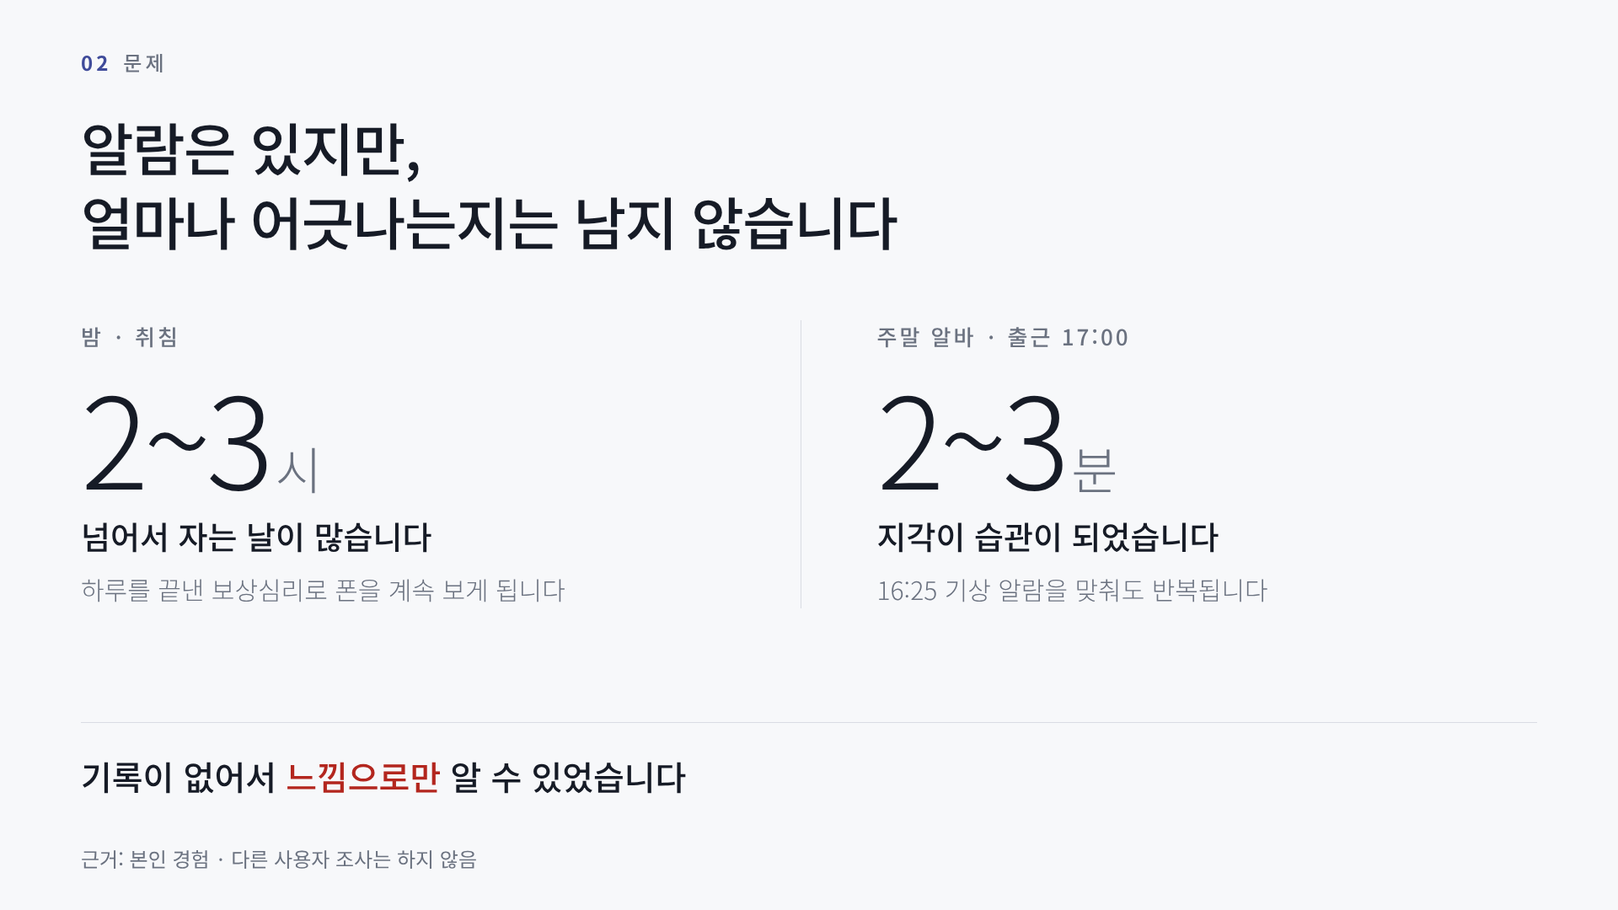
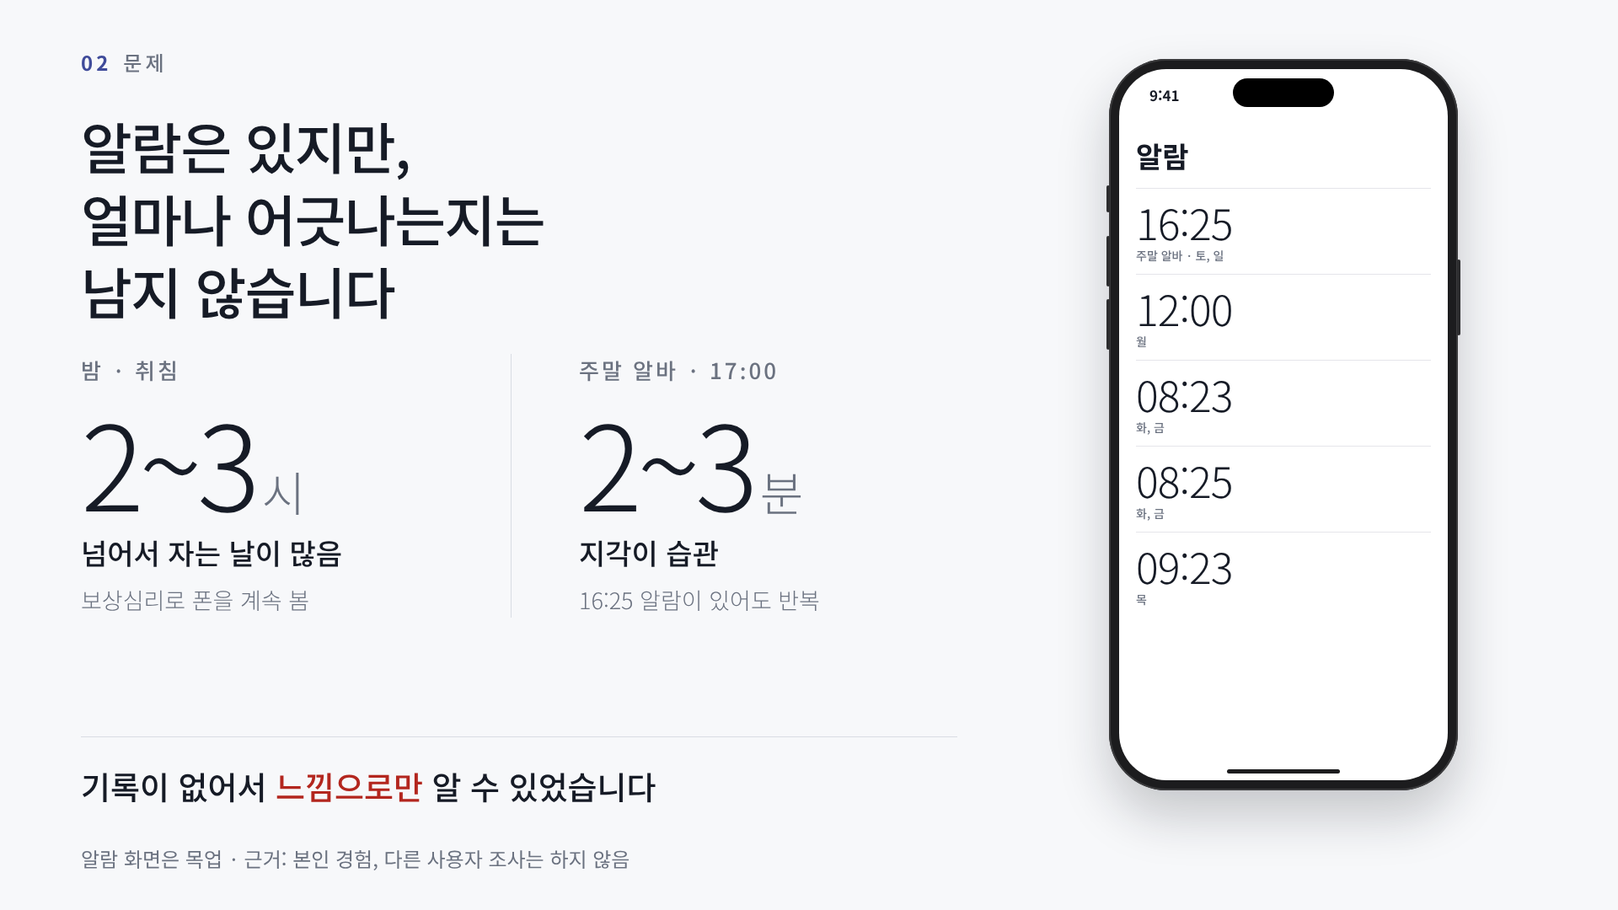
docs: 중간발표 장표를 아이폰 화면·아이콘 없음으로 다시 제작, 대본 갱신
Claude-Session: https://claude.ai/code/session_01P1GBHLbgts9XqSkhaJYGHU

diff --git a/promise_time/docs/presentation/slide2.html b/promise_time/docs/presentation/slide2.html
@@ -1,24 +1,22 @@
-<!doctype html><html lang=ko><head><meta charset=utf-8><link rel=stylesheet href="file:///tmp/claude-0/-home-user-claude/07db6671-1695-5be9-8ff8-4806634fec40/scratchpad/slides/../fonts/package/300.css"><link rel=stylesheet href="file:///tmp/claude-0/-home-user-claude/07db6671-1695-5be9-8ff8-4806634fec40/scratchpad/slides/../fonts/package/400.css"><link rel=stylesheet href="file:///tmp/claude-0/-home-user-claude/07db6671-1695-5be9-8ff8-4806634fec40/scratchpad/slides/../fonts/package/500.css"><link rel=stylesheet href="file:///tmp/claude-0/-home-user-claude/07db6671-1695-5be9-8ff8-4806634fec40/scratchpad/slides/../fonts/package/700.css"><link rel=stylesheet href=common.css><style>
-h1{position:absolute;left:96px;top:130px;font-size:68px}
-.cols{position:absolute;left:96px;right:96px;top:380px;display:flex}
-.c{flex:1;padding-right:70px}
-.c+.c{padding-left:90px;padding-right:0;border-left:1px solid var(--line)}
+<!doctype html><html lang=ko><head><meta charset=utf-8><link rel=stylesheet href="file:///tmp/claude-0/-home-user-claude/07db6671-1695-5be9-8ff8-4806634fec40/scratchpad/slides/../fonts/package/300.css"><link rel=stylesheet href="file:///tmp/claude-0/-home-user-claude/07db6671-1695-5be9-8ff8-4806634fec40/scratchpad/slides/../fonts/package/400.css"><link rel=stylesheet href="file:///tmp/claude-0/-home-user-claude/07db6671-1695-5be9-8ff8-4806634fec40/scratchpad/slides/../fonts/package/500.css"><link rel=stylesheet href="file:///tmp/claude-0/-home-user-claude/07db6671-1695-5be9-8ff8-4806634fec40/scratchpad/slides/../fonts/package/700.css"><link rel=stylesheet href=common.css><link rel=stylesheet href=phone.css><script src=phone.js></script><style>
+h1{position:absolute;left:96px;top:130px;font-size:66px}
+.cols{position:absolute;left:96px;top:420px;display:flex;gap:90px}
+.c{width:420px}.c+.c{padding-left:80px;border-left:1px solid var(--line)}
 .k{font-size:26px;letter-spacing:3px;color:var(--sub);font-weight:500}
-.n{font-size:150px;font-weight:300;letter-spacing:-6px;line-height:1.1;margin-top:16px}
-.n small{font-size:60px;letter-spacing:0;margin-left:8px;color:var(--sub)}
-.d{font-size:38px;font-weight:500;margin-top:10px}
-.e{font-size:30px;color:var(--sub);margin-top:14px;font-weight:300;line-height:1.5}
-.conc{position:absolute;left:96px;right:96px;bottom:130px;border-top:1px solid var(--line);padding-top:34px;font-size:40px;font-weight:500}
+.n{font-size:140px;font-weight:300;letter-spacing:-6px;line-height:1.1;margin-top:12px}
+.n small{font-size:56px;letter-spacing:0;margin-left:8px;color:var(--sub)}
+.d{font-size:34px;font-weight:500;margin-top:8px}
+.e{font-size:27px;color:var(--sub);margin-top:12px;font-weight:300;line-height:1.5}
+.conc{position:absolute;left:96px;width:1040px;bottom:120px;border-top:1px solid var(--line);padding-top:30px;font-size:38px;font-weight:500}
 .conc em{font-style:normal;color:var(--red)}
+#p{position:absolute;right:190px;top:70px}
 </style></head><body>
 <div class=sec><b>02</b>문제</div>
-<h1>알람은 있지만,<br>얼마나 어긋나는지는 남지 않습니다</h1>
+<h1>알람은 있지만,<br>얼마나 어긋나는지는<br>남지 않습니다</h1>
 <div class=cols>
- <div class=c><div class=k>밤 · 취침</div><div class=n>2~3<small>시</small></div>
-  <div class=d>넘어서 자는 날이 많습니다</div><div class=e>하루를 끝낸 보상심리로 폰을 계속 보게 됩니다</div></div>
- <div class=c><div class=k>주말 알바 · 출근 17:00</div><div class=n>2~3<small>분</small></div>
-  <div class=d>지각이 습관이 되었습니다</div><div class=e>16:25 기상 알람을 맞춰도 반복됩니다</div></div>
-</div>
+<div class=c><div class=k>밤 · 취침</div><div class=n>2~3<small>시</small></div><div class=d>넘어서 자는 날이 많음</div><div class=e>보상심리로 폰을 계속 봄</div></div>
+<div class=c><div class=k>주말 알바 · 17:00</div><div class=n>2~3<small>분</small></div><div class=d>지각이 습관</div><div class=e>16:25 알람이 있어도 반복</div></div></div>
 <div class=conc>기록이 없어서 <em>느낌으로만</em> 알 수 있었습니다</div>
-<div class=foot>근거: 본인 경험 · 다른 사용자 조사는 하지 않음</div>
+<div id=p></div><script>document.getElementById('p').innerHTML=frame(alarmScreen(),1.0);</script>
+<div class=foot>알람 화면은 목업 · 근거: 본인 경험, 다른 사용자 조사는 하지 않음</div>
 </body></html>

diff --git a/promise_time/docs/presentation/slide3.html b/promise_time/docs/presentation/slide3.html
@@ -1,19 +1,20 @@
-<!doctype html><html lang=ko><head><meta charset=utf-8><link rel=stylesheet href="file:///tmp/claude-0/-home-user-claude/07db6671-1695-5be9-8ff8-4806634fec40/scratchpad/slides/../fonts/package/300.css"><link rel=stylesheet href="file:///tmp/claude-0/-home-user-claude/07db6671-1695-5be9-8ff8-4806634fec40/scratchpad/slides/../fonts/package/400.css"><link rel=stylesheet href="file:///tmp/claude-0/-home-user-claude/07db6671-1695-5be9-8ff8-4806634fec40/scratchpad/slides/../fonts/package/500.css"><link rel=stylesheet href="file:///tmp/claude-0/-home-user-claude/07db6671-1695-5be9-8ff8-4806634fec40/scratchpad/slides/../fonts/package/700.css"><link rel=stylesheet href=common.css><style>
-h1{position:absolute;left:96px;top:104px;font-size:54px;white-space:nowrap}
-h1 em{font-style:normal;color:var(--accent)}
-.cols{position:absolute;top:215px;left:0;right:0;display:flex;justify-content:center;gap:100px}
-.col{width:460px}
-.cap{display:flex;align-items:baseline;gap:14px;margin-bottom:18px;height:44px}
-.cap b{font-size:26px;color:var(--accent);font-weight:500;letter-spacing:2px}
-.cap span{font-size:34px;font-weight:500}
-.cap small{font-size:24px;color:var(--sub);font-weight:300;margin-left:6px}
+<!doctype html><html lang=ko><head><meta charset=utf-8><link rel=stylesheet href="file:///tmp/claude-0/-home-user-claude/07db6671-1695-5be9-8ff8-4806634fec40/scratchpad/slides/../fonts/package/300.css"><link rel=stylesheet href="file:///tmp/claude-0/-home-user-claude/07db6671-1695-5be9-8ff8-4806634fec40/scratchpad/slides/../fonts/package/400.css"><link rel=stylesheet href="file:///tmp/claude-0/-home-user-claude/07db6671-1695-5be9-8ff8-4806634fec40/scratchpad/slides/../fonts/package/500.css"><link rel=stylesheet href="file:///tmp/claude-0/-home-user-claude/07db6671-1695-5be9-8ff8-4806634fec40/scratchpad/slides/../fonts/package/700.css"><link rel=stylesheet href=common.css><link rel=stylesheet href=phone.css><script src=phone.js></script><style>
+h1{position:absolute;left:96px;top:104px;font-size:54px;white-space:nowrap}h1 em{font-style:normal;color:var(--accent)}
+.cols{position:absolute;top:210px;left:0;right:0;display:flex;justify-content:center;gap:60px}
+.cap{display:flex;align-items:baseline;gap:14px;margin:0 0 14px 20px;height:40px}
+.cap b{font-size:26px;color:var(--accent);font-weight:500;letter-spacing:2px}.cap span{font-size:32px;font-weight:500}
 </style></head><body>
 <div class=sec><b>03</b>핵심가치</div>
 <h1>느낌이 아니라 <em>숫자</em>로 확인하고, 기록으로 남깁니다</h1>
 <div class=cols>
- <div class=col><div class=cap><b>01</b><span>시각 두 개 선택</span></div><div class=phone><img src=crops/first.png></div></div>
- <div class=col><div class=cap><b>02</b><span>차이를 바로 확인</span></div><div class=phone><img src=crops/result.png></div></div>
- <div class=col><div class=cap><b>03</b><span>기록이 쌓임</span></div><div class=phone><img src=crops/list.png></div></div>
-</div>
-<div class=foot>실제 실행 화면 · 입력값은 예시 · 현재는 앱을 다시 실행하면 기록이 사라집니다</div>
+<div><div class=cap><b>01</b><span>시각 두 개 선택</span></div><div id=a></div></div>
+<div><div class=cap><b>02</b><span>차이를 바로 확인</span></div><div id=b></div></div>
+<div><div class=cap><b>03</b><span>기록이 쌓임</span></div><div id=c></div></div></div>
+<script>
+const S=0.8;
+document.getElementById('a').innerHTML=frame(appScreen({kind:'취침'}),S);
+document.getElementById('b').innerHTML=frame(appScreen({kind:'취침',target:'01:23',actual:'02:40',result:'77분 늦었어요',rows:['취침 · 목표 01:23 · 실제 02:40 · 77분 늦었어요']}),S);
+document.getElementById('c').innerHTML=frame(appScreen({kind:'출근',target:'17:00',actual:'17:03',result:'3분 늦었어요',rows:['출근 · 목표 17:00 · 실제 17:03 · 3분 늦었어요','출근 · 목표 17:00 · 실제 17:00 · 목표 시각에 맞췄어요','취침 · 목표 01:23 · 실제 23:40 · 103분 일찍 했어요','취침 · 목표 01:23 · 실제 02:40 · 77분 늦었어요']}),S);
+</script>
+<div class=foot>앱 화면 · 입력값은 예시 · 현재는 앱을 다시 실행하면 기록이 사라집니다</div>
 </body></html>

diff --git a/promise_time/docs/presentation/slide1.html b/promise_time/docs/presentation/slide1.html
@@ -1,25 +1,20 @@
-<!doctype html><html lang=ko><head><meta charset=utf-8><link rel=stylesheet href="file:///tmp/claude-0/-home-user-claude/07db6671-1695-5be9-8ff8-4806634fec40/scratchpad/slides/../fonts/package/300.css"><link rel=stylesheet href="file:///tmp/claude-0/-home-user-claude/07db6671-1695-5be9-8ff8-4806634fec40/scratchpad/slides/../fonts/package/400.css"><link rel=stylesheet href="file:///tmp/claude-0/-home-user-claude/07db6671-1695-5be9-8ff8-4806634fec40/scratchpad/slides/../fonts/package/500.css"><link rel=stylesheet href="file:///tmp/claude-0/-home-user-claude/07db6671-1695-5be9-8ff8-4806634fec40/scratchpad/slides/../fonts/package/700.css"><link rel=stylesheet href=common.css><style>
+<!doctype html><html lang=ko><head><meta charset=utf-8><link rel=stylesheet href="file:///tmp/claude-0/-home-user-claude/07db6671-1695-5be9-8ff8-4806634fec40/scratchpad/slides/../fonts/package/300.css"><link rel=stylesheet href="file:///tmp/claude-0/-home-user-claude/07db6671-1695-5be9-8ff8-4806634fec40/scratchpad/slides/../fonts/package/400.css"><link rel=stylesheet href="file:///tmp/claude-0/-home-user-claude/07db6671-1695-5be9-8ff8-4806634fec40/scratchpad/slides/../fonts/package/500.css"><link rel=stylesheet href="file:///tmp/claude-0/-home-user-claude/07db6671-1695-5be9-8ff8-4806634fec40/scratchpad/slides/../fonts/package/700.css"><link rel=stylesheet href=common.css><link rel=stylesheet href=phone.css><script src=phone.js></script><style>
 .l{position:absolute;left:96px;top:230px;width:1000px}
 .name{font-size:30px;color:var(--accent);font-weight:500;letter-spacing:1px}
 h1{font-size:80px;margin-top:26px}
 .sub{font-size:34px;color:var(--sub);margin-top:34px;line-height:1.6;font-weight:300}
 .list{margin-top:70px;width:820px;border-top:1px solid var(--line)}
 .it{display:flex;padding:26px 0;border-bottom:1px solid var(--line);font-size:34px;align-items:baseline}
-.it b{width:130px;font-weight:500;color:var(--accent)}
-.it span{color:var(--ink);font-weight:300}
-.shot{position:absolute;right:170px;top:150px;width:520px}
-.phone{height:790px}
+.it b{width:130px;font-weight:500;color:var(--accent)}.it span{font-weight:300}
+#p{position:absolute;right:190px;top:70px}
 </style></head><body>
 <div class=sec><b>01</b>주제</div>
-<div class=l>
- <div class=name>약속 시각 기록 (가칭)</div>
- <h1>정한 시각과 실제 시각,<br>그 차이를 숫자로 남깁니다</h1>
- <div class=sub>취침·출근 시각을 정해 두고,<br>실제로 한 시각과의 차이를 분 단위로 보여 주는 앱</div>
- <div class=list>
-  <div class=it><b>취침</b><span>정한 시각  ·  실제로 잠든 시각</span></div>
-  <div class=it><b>출근</b><span>정한 시각  ·  실제로 도착한 시각</span></div>
- </div>
-</div>
-<div class=shot><div class=phone><img src=crops/result.png></div></div>
-<div class=foot>실제 실행 화면 · 입력값은 예시 (목표 01:23, 실제 02:40)</div>
+<div class=l><div class=name>약속 시각 기록 (가칭)</div>
+<h1>정한 시각과 실제 시각,<br>그 차이를 숫자로 남깁니다</h1>
+<div class=sub>취침·출근 시각을 정해 두고,<br>실제로 한 시각과의 차이를 분 단위로 보여 주는 앱</div>
+<div class=list><div class=it><b>취침</b><span>정한 시각  ·  실제로 잠든 시각</span></div>
+<div class=it><b>출근</b><span>정한 시각  ·  실제로 도착한 시각</span></div></div></div>
+<div id=p></div>
+<script>document.getElementById('p').innerHTML=frame(appScreen({kind:'취침',target:'01:23',actual:'02:40',result:'77분 늦었어요',rows:['취침 · 목표 01:23 · 실제 02:40 · 77분 늦었어요']}),1.0);</script>
+<div class=foot>앱 화면 · 입력값은 예시 (목표 01:23, 실제 02:40)</div>
 </body></html>

diff --git a/promise_time/docs/presentation/phone.css b/promise_time/docs/presentation/phone.css
@@ -1,0 +1,34 @@
+/* 아이폰 모양 틀 (논리 크기 390x844, scale 변수로 축소) */
+.ip{position:relative;width:calc(414px*var(--s));height:calc(868px*var(--s))}
+.ip .body{position:absolute;left:0;top:0;width:414px;height:868px;transform:scale(var(--s));transform-origin:0 0;background:#1C1C1E;border-radius:68px;padding:12px;box-shadow:0 30px 60px rgba(22,27,38,.22),inset 0 0 0 2px #3A3A3C}
+.ip .scr{position:relative;width:390px;height:844px;border-radius:56px;overflow:hidden;background:#F3F5FA}
+.ip .isl{position:absolute;top:11px;left:50%;margin-left:-60px;width:120px;height:34px;border-radius:20px;background:#000;z-index:5}
+.ip .time{position:absolute;top:18px;left:36px;font-size:17px;font-weight:700;z-index:5}
+.ip .home{position:absolute;bottom:8px;left:50%;margin-left:-67px;width:134px;height:5px;border-radius:3px;background:#1C1C1E;z-index:5}
+.ip .btn{position:absolute;width:4px;background:#2C2C2E;border-radius:2px}
+.ip .btn.a{left:-3px;top:150px;height:32px}.ip .btn.b{left:-3px;top:210px;height:60px}.ip .btn.c{left:-3px;top:285px;height:60px}.ip .btn.d{right:-3px;top:230px;height:90px}
+/* 앱 화면 */
+.app{padding:62px 16px 0;font-family:'Noto Sans KR',sans-serif;color:#1B1B1F}
+.app h2{font-size:20px;font-weight:400;text-align:center;margin-bottom:20px}
+.app .guide{font-size:13.5px;color:#46464F;margin-bottom:14px}
+.seg{display:flex;border:1px solid #79747E;border-radius:20px;overflow:hidden;height:38px}
+.seg div{flex:1;text-align:center;line-height:36px;font-size:14px}
+.seg .on{background:#E1E0FF;font-weight:700}
+.seg div+div{border-left:1px solid #79747E}
+.two{display:flex;gap:12px;margin-top:14px}
+.tc{flex:1;background:#fff;border:1px solid #CAC4D0;border-radius:16px;padding:14px 14px 16px}
+.tc small{display:block;font-size:12px;color:#46464F}
+.tc b{display:block;margin-top:8px;font-size:22px;font-weight:500}
+.tc b.no{font-size:19px;font-weight:700;color:#8A8A92}
+.rec{margin-top:14px;background:#4F5A9C;color:#fff;text-align:center;border-radius:20px;height:44px;line-height:44px;font-size:14px;font-weight:500}
+.res{margin-top:14px;background:#FCD9D5;color:#9B1C1C;border-radius:20px;padding:20px 20px;font-size:23px;font-weight:700}
+.lh{margin-top:24px;font-size:16px;font-weight:700}
+.ls{font-size:12px;color:#46464F;margin:2px 0 10px}
+.empty{background:#fff;border:1px solid #CAC4D0;border-radius:16px;padding:46px 0;text-align:center;font-size:14px;color:#46464F}
+.row{background:#fff;border:1px solid #CAC4D0;border-radius:14px;padding:14px 14px;font-size:12.5px;margin-bottom:8px;white-space:nowrap;letter-spacing:-.3px}
+/* 알람 목록 (목업) */
+.al{min-height:844px;padding:64px 20px 0;font-family:'Noto Sans KR',sans-serif;background:#fff}
+.al h2{font-size:34px;font-weight:700;margin:14px 0 14px}
+.ar{border-top:1px solid #E5E5EA;padding:12px 0}
+.ar .t{font-size:50px;font-weight:300;letter-spacing:-1px;line-height:1.1}
+.ar .d{font-size:14px;color:#6B7280;margin-top:2px}

diff --git a/promise_time/docs/presentation/phone.js b/promise_time/docs/presentation/phone.js
@@ -1,0 +1,23 @@
+// 아이폰 틀 + 앱 화면(아이콘 없음) 생성 함수. 값은 앱의 실제 문구를 그대로 썼다.
+function frame(inner, s, time){
+  return `<div class=ip style="--s:${s}"><div class=body>
+   <i class="btn a"></i><i class="btn b"></i><i class="btn c"></i><i class="btn d"></i>
+   <div class=scr><div class=isl></div><div class=time>${time||'9:41'}</div>${inner}<div class=home></div></div></div></div>`;
+}
+function appScreen(o){
+  const seg = `<div class=seg><div class="${o.kind==='취침'?'on':''}">취침</div><div class="${o.kind==='출근'?'on':''}">출근</div></div>`;
+  const val = v => v ? `<b>${v}</b>` : `<b class=no>선택 안 함</b>`;
+  const rows = (o.rows||[]).map(r=>`<div class=row>${r}</div>`).join('');
+  return `<div class=app><h2>약속 시각 기록</h2>
+   <div class=guide>오늘 정한 시각과 실제로 한 시각을 선택해 주세요</div>${seg}
+   <div class=two><div class=tc><small>오늘 정한 시각은?</small>${val(o.target)}</div>
+   <div class=tc><small>실제로 한 시각은?</small>${val(o.actual)}</div></div>
+   <div class=rec>기록</div>
+   ${o.result?`<div class=res>${o.result}</div>`:''}
+   <div class=lh>이번 실행 중 기록 목록 · ${(o.rows||[]).length}건</div><div class=ls>앱을 다시 실행하면 사라져요</div>
+   ${rows||'<div class=empty>아직 기록이 없어요</div>'}</div>`;
+}
+function alarmScreen(){
+  const r=(t,d)=>`<div class=ar><div class=t>${t}</div><div class=d>${d}</div></div>`;
+  return `<div class=al><h2>알람</h2>${r('16:25','주말 알바 · 토, 일')}${r('12:00','월')}${r('08:23','화, 금')}${r('08:25','화, 금')}${r('09:23','목')}</div>`;
+}

diff --git a/promise_time/docs/presentation/script.md b/promise_time/docs/presentation/script.md
@@ -1,40 +1,42 @@
-# 12주차 중간발표 대본 (약 2분, 5분 이내)
+# 12주차 중간발표 대본 (약 2분 / 한도 5분)
 
-공지 조건: 이미지 장표 3장 / 성명 먼저 / 1~5분 / 화면을 가리키며 설명
-`[이름]`은 본인 이름으로 바꾼다. 소리 내어 두 번 읽어 보기.
+공지 조건: 이미지 장표 3장 · 주제·문제·핵심가치 · 화면 중심 설명 · **성명 먼저** · 1~5분
+`[이름]`만 본인 이름으로 바꾸세요. 소리 내어 2~3번 읽어 보세요. (장표 3장 = png/ 폴더)
 
 ## 장표 1 · 주제 (약 30초)
 안녕하세요, 컴퓨터소프트웨어과 **[이름]**입니다.
 
 제가 만든 앱은 **'약속 시각 기록'**이라는 가칭의 앱입니다.
-취침이나 출근 시각을 정해 두고, 실제로 한 시각과 **얼마나 차이가 났는지를 분 단위 숫자로** 보여 줍니다.
-화면을 보시면, 정한 시각 01:23, 실제 02:40을 고르고 기록을 누르면 **"77분 늦었어요"**라고 바로 나옵니다.
+취침이나 출근 시각을 정해 두고, 실제로 한 시각과의 **차이를 분 단위 숫자로** 보여 줍니다.
+화면을 보시면, 정한 시각 01:23과 실제 시각 02:40을 고르고 기록을 누르면 **"77분 늦었어요"**라고 바로 나옵니다.
 
 ## 장표 2 · 문제 (약 40초)
-이 앱을 만든 이유는 제 경험 때문입니다.
+이 앱은 제 경험에서 시작했습니다.
 
-첫째, 밤에는 하루를 끝냈다는 보상심리로 폰을 계속 보다가 **2~3시가 넘어서** 자는 일이 많습니다.
-둘째, 주말 알바는 17시 출근인데 16시 25분에 알람을 맞춰 놓고도 **2~3분 지각하는 일이 습관**이 되었습니다.
+첫째, 밤에는 하루를 끝냈다는 보상심리로 폰을 계속 보다가 **2~3시가 넘어서** 자는 날이 많습니다.
+둘째, 주말 알바는 17시 출근인데, 화면의 알람처럼 **16시 25분에 알람**을 맞춰 두고도 **2~3분 지각하는 일이 습관**이 되었습니다.
 
-알람은 이미 있는데, **얼마나 어긋나는지는 기록이 없어서** 느낌으로만 알고 있었습니다.
+알람은 있지만 **얼마나 어긋나는지는 남지 않아서**, 지금까지는 느낌으로만 알 수 있었습니다.
 다만 이것은 제 경험이고, 다른 사용자를 조사한 것은 아닙니다.
+(알람 화면은 제 알람을 옮겨 그린 예시 화면입니다.)
 
 ## 장표 3 · 핵심가치 (약 50초)
-핵심 가치는 **느낌이 아니라 숫자로 확인하고, 기록으로 쌓인다**는 것입니다.
+핵심 가치는 **느낌이 아니라 숫자로 확인하고, 기록으로 남기는 것**입니다.
 
-왼쪽 첫 화면에서는 정한 시각과 실제 시각, 두 개만 고릅니다.
-가운데 화면에서는 기록을 누르면 차이가 한 문장으로 바로 나옵니다.
-오른쪽 화면에서는 기록이 최신순으로 쌓여서, 4건을 한눈에 볼 수 있습니다.
+첫 번째 화면에서는 정한 시각과 실제 시각, 두 개만 고릅니다.
+두 번째 화면에서는 기록을 누르면 차이가 한 문장으로 바로 나옵니다.
+세 번째 화면에서는 기록이 최신순으로 쌓여서 4건을 한눈에 볼 수 있습니다.
 
 지금 구현된 것은 여기까지이고, 앱을 다시 실행하면 기록은 사라집니다.
-또 이 앱이 실제로 습관을 고치는지는 아직 검증하지 못했습니다.
+또 이 앱으로 습관이 실제로 고쳐지는지는 아직 확인하지 못했습니다.
 이상입니다. 감사합니다.
 
 ---
-## 질문이 나오면 (사실만)
+## 예상 질문 (사실만 답하기)
 | 질문 | 답 |
 |---|---|
-| 알람 앱과 뭐가 다른가요? | 알람은 깨우는 앱이고, 이 앱은 정한 시각과 실제 시각의 차이를 남기는 앱입니다. |
-| 12시간 넘게 차이 나면요? | 날짜를 입력하지 않아서 가장 가까운 방향으로 계산합니다. 현재 한계입니다. |
-| 저장되나요? | 아직 안 됩니다. 앱을 다시 실행하면 사라집니다. |
-| 사용자 조사는 했나요? | 아니요, 본인 경험입니다. |
+| 알람 앱·아이폰 수면 앱과 뭐가 다른가요? | 아이폰 수면 앱은 **평소 평균**과 비교하고, 이 앱은 **제가 정한 약속 시각**과 비교합니다. 출근 같은 약속도 기록합니다. (더 낫다는 말은 하지 않기) |
+| 저장되나요? | 아직 안 됩니다. 지금은 차이를 숫자로 만드는 핵심 동작을 먼저 만든 단계입니다. |
+| 12시간 넘게 차이 나면요? | 날짜를 입력하지 않아 가까운 방향으로 계산합니다. 현재 한계입니다. |
+| 사용자 조사는 했나요? | 아니요, 제 경험입니다. |
+| 실제로 실행해 봤나요? | 네, 아이폰과 Chrome에서 실행했습니다. 장표 화면은 아이콘 없이 다시 그린 예시 화면입니다. |

diff --git a/promise_time/docs/presentation/README.md b/promise_time/docs/presentation/README.md
@@ -1,14 +1,15 @@
 # 12주차 중간발표 자료
 
-공지(12주차) 기준: 이미지 장표 3장 + 대본. PPT 아님.
+공지 기준: 이미지 장표 3장(PPT 아님) + 대본, 앱 화면 중심.
 
-| 파일 | 내용 | 상태 |
-|---|---|---|
-| png/slide1-주제.png | 주제 + 실제 실행 화면 1개 | 완료 |
-| png/slide2-문제.png | 문제 (밤 / 주말 알바) | 완료 |
-| png/slide3-핵심가치.png | 핵심가치, 실제 화면 3개 | 완료 |
-| script.md | 약 2분 대본 | 완료, `[이름]`만 바꾸면 됨 |
+| 파일 | 내용 |
+|---|---|
+| png/slide1-주제.png | 주제 + 아이폰 화면 1개 |
+| png/slide2-문제.png | 문제 + 알람 화면(목업) |
+| png/slide3-핵심가치.png | 핵심가치, 아이폰 화면 3개 |
+| script.md | 약 2분 대본 + 예상 질문 |
 
-- 화면은 Chrome 실행 화면이고 입력값은 예시이다.
-- slide*.html은 원본이다. 폰트(Noto Sans KR) 경로가 작업 PC 임시 폴더라 다시 렌더링할 때만 고친다.
-- 12주차 공지에는 15주차 목표 요구가 없어서 장표에서 뺐다. (11주차 자료에는 있음)
+- 장표의 앱 화면은 실제 앱의 문구·배치를 아이콘 없이 HTML로 다시 그린 것이다. (실제 캡처는 crops/, docs/evidence/)
+- 알람 화면은 목업이며 시각·요일은 본인 알람 기준이다.
+- 12주차 공지에는 15주차 목표 요구가 없어 장표에서 뺐다.
+- slide*.html 폰트 경로는 작업 PC 임시 폴더라 다시 렌더링할 때만 고친다.
